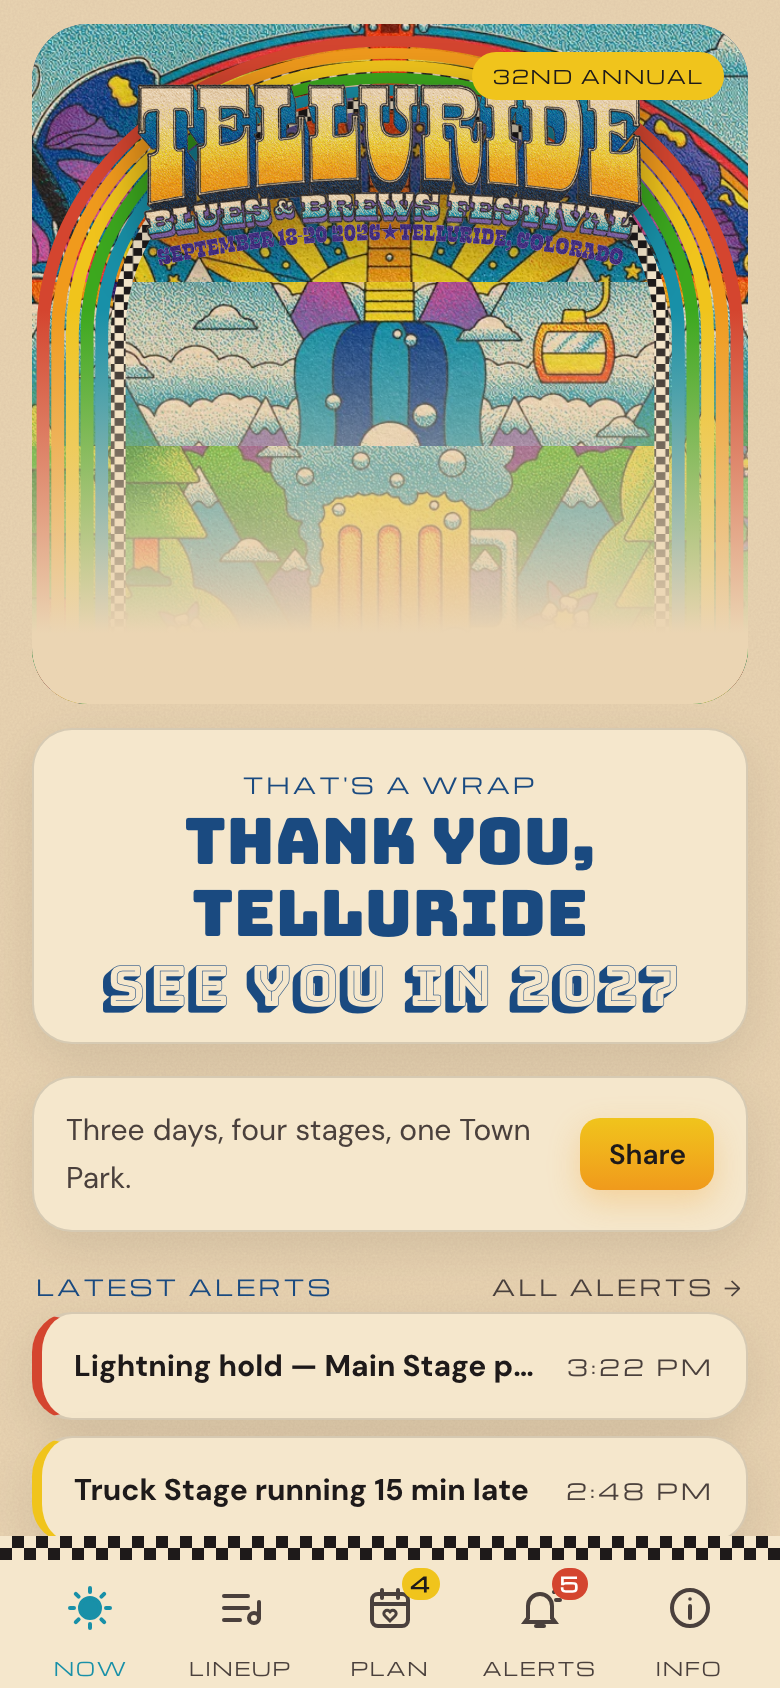
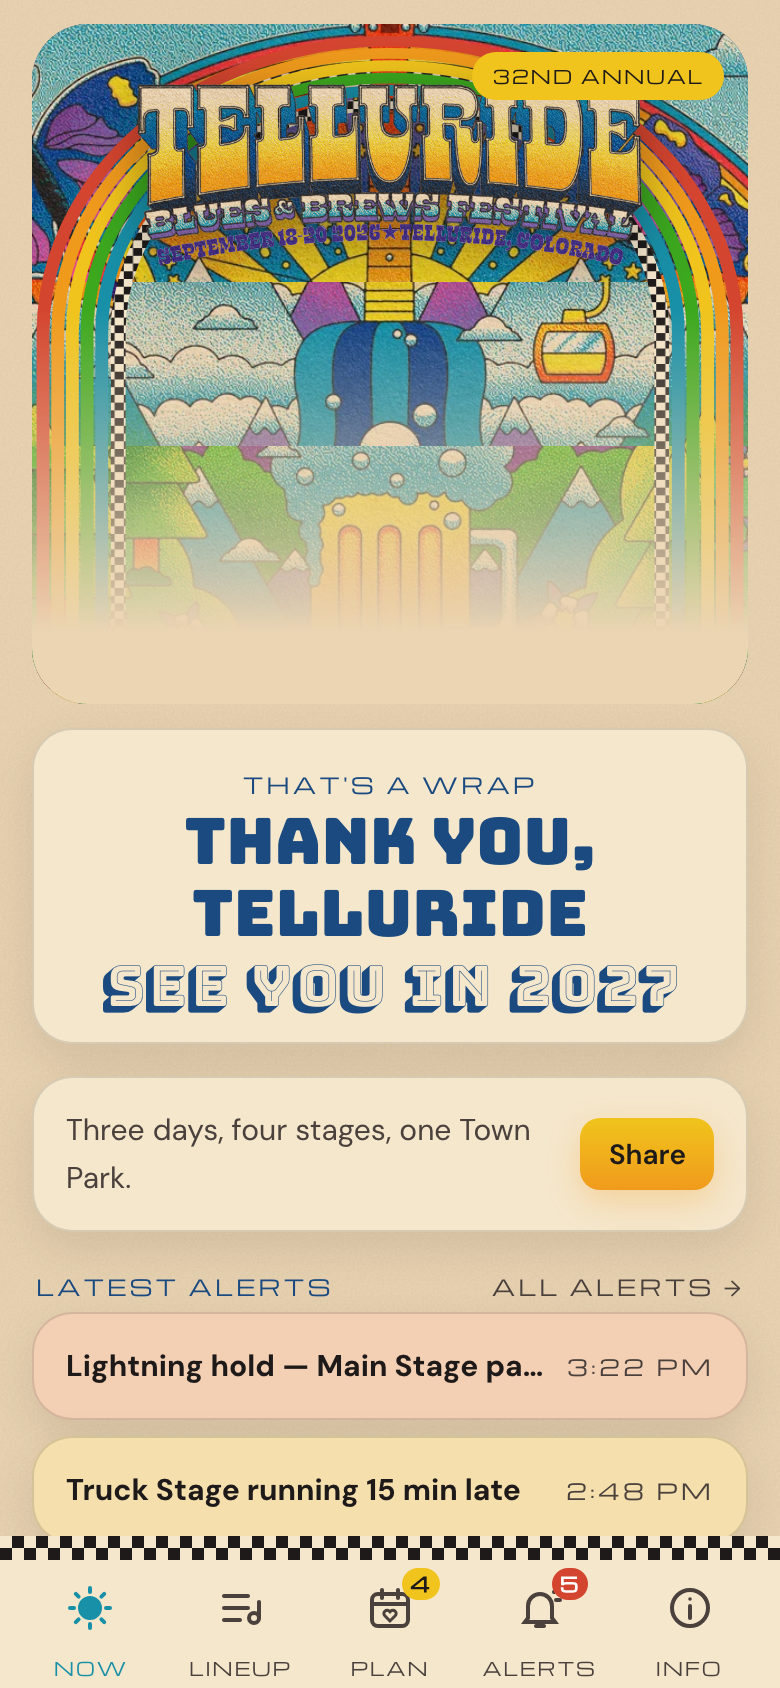
feat(alerts): severity as a tinted card background instead of a left accent

Changed region(s): [[0.0308, 0.7701, 0.9846, 0.9242]]

diff --git a/apps/festival/src/design/tokens.css b/apps/festival/src/design/tokens.css
@@ -60,12 +60,19 @@
   --color-structure: var(--structure);
   --color-structure-2: var(--structure-2);
   --color-structure-fill: var(--structure-fill);
+  /* alert severity tints: the surface color washed with the severity color, per theme */
+  --color-tint-info: var(--tint-info);
+  --color-tint-important: var(--tint-important);
+  --color-tint-urgent: var(--tint-urgent);
 }
 
 :root, [data-theme="light"] {
   --bg: var(--color-paper);
   --surface: var(--color-paper-light);
   --surface-2: var(--color-paper-deep);
+  --tint-info: color-mix(in oklab, var(--color-sky) 20%, var(--color-paper-light));
+  --tint-important: color-mix(in oklab, var(--color-sun) 24%, var(--color-paper-light));
+  --tint-urgent: color-mix(in oklab, var(--color-ember) 16%, var(--color-paper-light));
   --fg: var(--color-ink);
   --fg-soft: var(--color-ink-soft);
   --hair: rgba(30, 26, 26, 0.14);
@@ -82,6 +89,9 @@
   --bg: var(--color-night-deep);
   --surface: var(--color-night);
   --surface-2: var(--color-night-ink);
+  --tint-info: color-mix(in srgb, var(--color-sky) 34%, var(--color-night));
+  --tint-important: color-mix(in srgb, var(--color-sun-hot) 34%, var(--color-night-ink));
+  --tint-urgent: color-mix(in srgb, var(--color-ember) 42%, var(--color-night-ink));
   --fg: var(--color-paper);
   --fg-soft: #CDB99A;
   --hair: rgba(235, 213, 179, 0.16);

diff --git a/apps/festival/src/features/alerts/AlertsScreen.tsx b/apps/festival/src/features/alerts/AlertsScreen.tsx
@@ -8,15 +8,15 @@ import { formatTime, isoMs, parseIso, toDenverParts } from "@/domain/time";
 import { useAlertsStore } from "@/state/alerts";
 
 const SEV = {
-  info: { bar: "border-l-sky", tone: "sky" as const, label: "Info" },
-  important: { bar: "border-l-sun", tone: "sun" as const, label: "Important" },
-  urgent: { bar: "border-l-ember", tone: "ember" as const, label: "Urgent" },
+  info: { tone: "sky" as const, label: "Info" },
+  important: { tone: "sun" as const, label: "Important" },
+  urgent: { tone: "ember" as const, label: "Urgent" },
 };
 
 function AlertCard({ alert, expanded, unread, onToggle }: { alert: Alert; expanded: boolean; unread: boolean; onToggle: () => void }) {
   const sev = SEV[alert.severity];
   return (
-    <Card className={`border-l-[5px] ${sev.bar}`}>
+    <Card tint={alert.severity}>
       {/* min-h-11 keeps the expand control at the 44 px tap floor even for one-line titles */}
       <button type="button" onClick={onToggle} aria-expanded={expanded} className="flex min-h-11 w-full items-center gap-2 text-left">
         {unread && <span aria-label="Unread" className="h-2 w-2 shrink-0 rounded-chip bg-ember" />}

diff --git a/apps/festival/src/features/now/NowScreen.tsx b/apps/festival/src/features/now/NowScreen.tsx
@@ -24,7 +24,7 @@ export function NowScreen() {
           <div className="mt-5 flex items-baseline justify-between px-0.5"><Eyebrow tone="structure">Latest alerts</Eyebrow><Link to="/alerts" className="eyebrow text-fg-soft">All alerts →</Link></div>
           <div className="mt-1.5 space-y-2">
             {alerts.map((a) => (
-              <Link key={a.id} to={`/alerts/${a.id}`} className="block"><Card className={`border-l-[5px] py-2.5 ${a.severity === "urgent" ? "border-l-ember" : a.severity === "important" ? "border-l-sun" : "border-l-sky"}`}><div className="flex items-center gap-2"><b className="min-w-0 flex-1 truncate text-[15px]">{a.title}</b><Eyebrow>{formatTime(parseIso(a.publishedAt))}</Eyebrow></div></Card></Link>
+              <Link key={a.id} to={`/alerts/${a.id}`} className="block"><Card tint={a.severity} className="py-2.5"><div className="flex items-center gap-2"><b className="min-w-0 flex-1 truncate text-[15px]">{a.title}</b><Eyebrow>{formatTime(parseIso(a.publishedAt))}</Eyebrow></div></Card></Link>
             ))}
           </div>
         </>

diff --git a/apps/festival/src/features/now/NowLive.tsx b/apps/festival/src/features/now/NowLive.tsx
@@ -33,7 +33,7 @@ export function NowLive({ now, dayId }: { now: Date; dayId: DayId | null }) {
       </Card>
       {urgent && (
         <Link to={`/alerts/${urgent.id}`} className="mt-3 block">
-          <Card className="border-l-[5px] border-l-ember py-2.5"><div className="flex items-center gap-2"><Chip tone="ember">Urgent</Chip><b className="min-w-0 flex-1 truncate text-[15px]">{urgent.title}</b><Eyebrow>{formatTime(parseIso(urgent.publishedAt))}</Eyebrow></div></Card>
+          <Card tint="urgent" className="py-2.5"><div className="flex items-center gap-2"><Chip tone="ember">Urgent</Chip><b className="min-w-0 flex-1 truncate text-[15px]">{urgent.title}</b><Eyebrow>{formatTime(parseIso(urgent.publishedAt))}</Eyebrow></div></Card>
         </Link>
       )}
       <div className="mt-4 flex items-baseline justify-between px-0.5"><Eyebrow tone="structure">On stage now</Eyebrow><Link to="/lineup" className="eyebrow text-fg-soft">Up next →</Link></div>

diff --git a/apps/festival/src/design/Card.tsx b/apps/festival/src/design/Card.tsx
@@ -1,5 +1,10 @@
 import type { HTMLAttributes } from "react";
 
-export function Card({ className = "", padded = true, ...rest }: HTMLAttributes<HTMLDivElement> & { padded?: boolean }) {
-  return <div className={`rounded-card bg-surface border border-hair shadow-card ${padded ? "px-4 py-3.5" : ""} ${className}`} {...rest} />;
+export type CardTint = "info" | "important" | "urgent";
+
+// Alert cards carry their severity as a background wash (tokens.css `--tint-*`) instead of an edge accent.
+const TINT: Record<CardTint, string> = { info: "bg-tint-info", important: "bg-tint-important", urgent: "bg-tint-urgent" };
+
+export function Card({ className = "", padded = true, tint, ...rest }: HTMLAttributes<HTMLDivElement> & { padded?: boolean; tint?: CardTint }) {
+  return <div className={`rounded-card ${tint ? TINT[tint] : "bg-surface"} border border-hair shadow-card ${padded ? "px-4 py-3.5" : ""} ${className}`} {...rest} />;
 }

diff --git a/apps/festival/src/design/primitives.test.tsx b/apps/festival/src/design/primitives.test.tsx
@@ -96,3 +96,13 @@ describe("touch targets", () => {
     }
   });
 });
+
+describe("Card tint", () => {
+  it("swaps the surface background for the severity wash", () => {
+    const { container, rerender } = render(<Card tint="urgent">x</Card>);
+    expect(container.firstElementChild!.className).toMatch(/bg-tint-urgent/);
+    expect(container.firstElementChild!.className).not.toMatch(/bg-surface/);
+    rerender(<Card>x</Card>);
+    expect(container.firstElementChild!.className).toMatch(/bg-surface/);
+  });
+});
